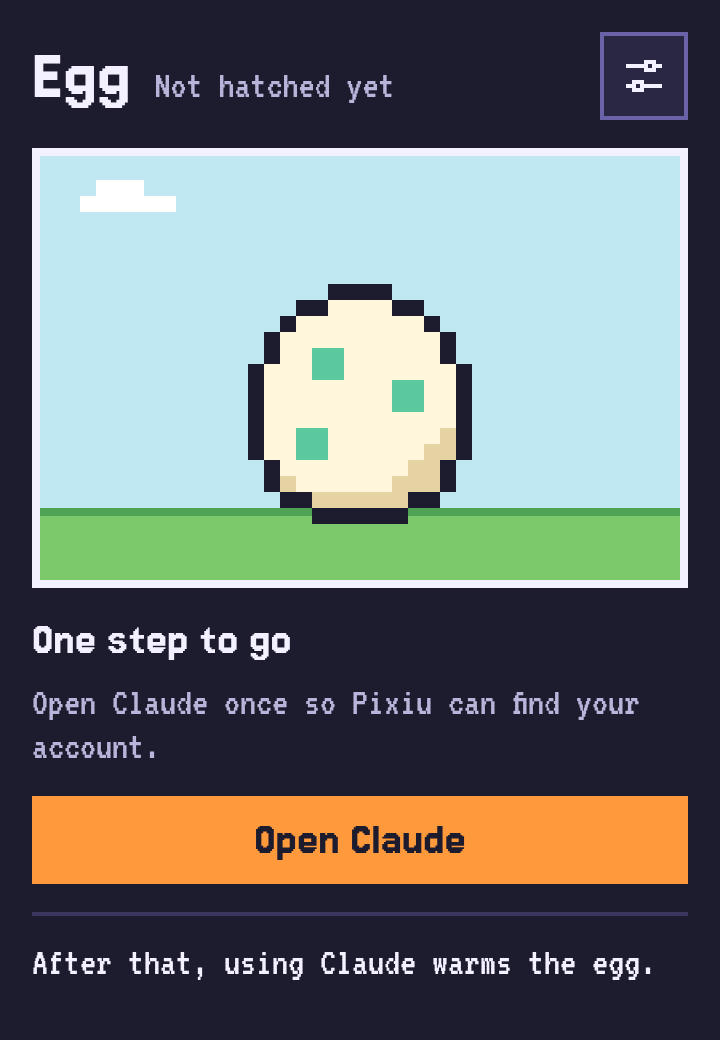
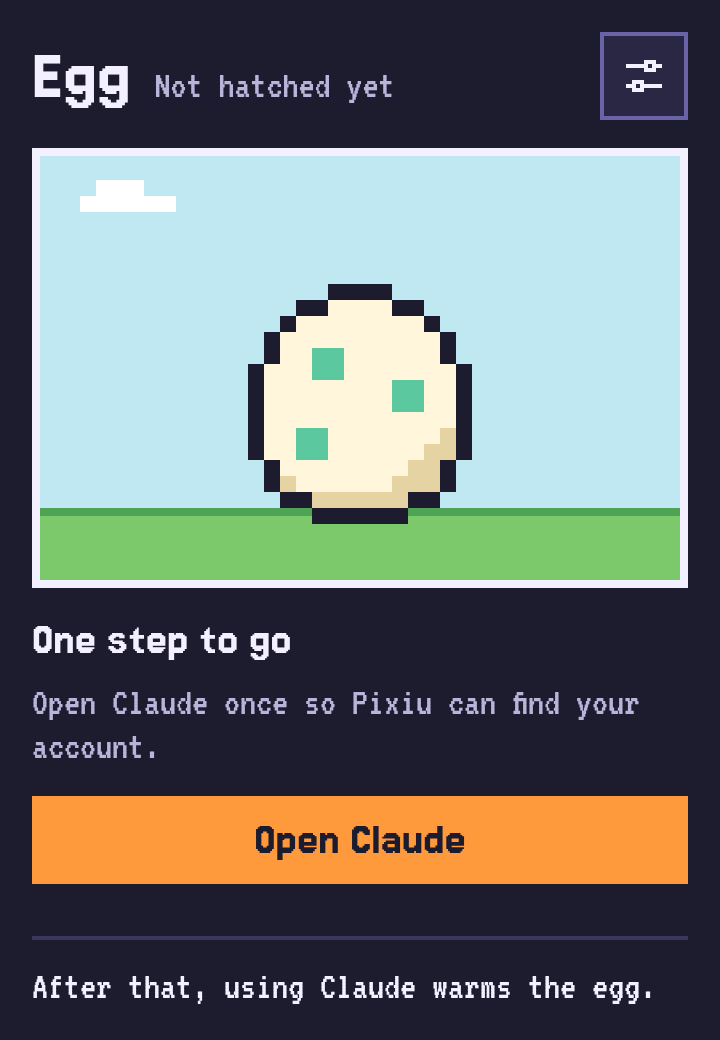
Fix review findings on the birthday branch
Footers in the first-run, hatching, ran-away, and can't-reach popups now reach
the bottom: the footer rule is scoped to the popup so the reset of paragraph
margins no longer cancels it. A long name with a birthday's age moves the age
below the name on the overlay card. The docs no longer claim a 0.1.0 pet never
celebrates after an update, and the banner comment says it is on the grass.

Changed region(s): [[0.0306, 0.8615, 0.9472, 0.9846]]

diff --git a/src/lib/pet/state.ts b/src/lib/pet/state.ts
@@ -73,7 +73,8 @@ export type PetStateV1 = Omit<PetStateV2, "version" | "xp"> & { version: 1 };
  * week is also credited the part of the week from before it hatched, which the old rules would
  * have rewarded at the reset anyway.
  *
- * Older pets have no birthday on record, so nothing celebrates by surprise after an update.
+ * Older pets have no birthday on record, so a pet from 0.2.0 does not celebrate after an update.
+ * A pet from 0.1.0 does celebrate if its credited XP pays for a catch-up birthday at its next read.
  */
 export function upgradePet(pet: PetState | PetStateV2 | PetStateV1): PetState {
   if (pet.version === 1) {

diff --git a/src/ui/PetPopup.tsx b/src/ui/PetPopup.tsx
@@ -510,7 +510,7 @@ function foodNote(mood: Mood, pet: PetState, session: UsageWindow, now: Date): s
   return "No session running";
 }
 
-/** The banner in the sky on a birthday. Growing into a new stage gets its own. */
+/** The banner on the grass on a birthday. Growing into a new stage gets its own. */
 const BANNERS: Record<Stage, string> = {
   baby: "Happy birthday!",
   child: "Now a child!",

diff --git a/src/ui/Overlay.tsx b/src/ui/Overlay.tsx
@@ -397,7 +397,7 @@ function Card(props: OverlayProps & { view: PetView }) {
 
 function Heading({ title, detail }: { title: string; detail: string }) {
   return (
-    <div class="ov-row">
+    <div class="ov-row ov-heading">
       <h2>{title}</h2>
       <p class="ov-dim">{detail}</p>
     </div>

diff --git a/src/ui/overlay.css b/src/ui/overlay.css
@@ -151,6 +151,15 @@
   gap: 8px;
 }
 
+/* A long name with a birthday's "Age 14 today!" moves the age below the name. */
+.ov-heading {
+  flex-wrap: wrap;
+}
+
+.ov-heading p {
+  white-space: nowrap;
+}
+
 .ov-stat {
   display: flex;
   flex-direction: column;

diff --git a/src/ui/pet-popup.css b/src/ui/pet-popup.css
@@ -263,7 +263,8 @@
   gap: 6px;
 }
 
-.px-footer {
+/* Scoped to the popup so it beats the reset of paragraph margins above. */
+.pixiu .px-footer {
   margin-top: auto;
   padding-top: 12px;
   border-top: 2px solid var(--divider);

diff --git a/docs/RULES.md b/docs/RULES.md
@@ -40,7 +40,7 @@ The pet logic sees only this, refreshed on each poll:
 ## Birthdays
 
 - **Decided (Nayed, 2026-11-26):** the pet celebrates each birthday for 24 hours, so a birthday that happens while nobody is looking is still seen.
-- **Decided (Nayed, 2026-11-26):** the pet remembers its last birthday: when it was, the age it reached, and the age before. Pets from 0.2.0 and older start with none, so nothing celebrates by surprise after an update.
+- **Decided (Nayed, 2026-11-26):** the pet remembers its last birthday: when it was, the age it reached, and the age before. Pets from 0.2.0 and older start with none, so a pet from 0.2.0 does not celebrate after an update. A pet from 0.1.0 does, if the XP it is credited pays for a catch-up birthday.
 - **Decided (Nayed, 2026-11-26):** several ages paid for at once make one celebration, for the age reached.
 - **Decided (Nayed, 2026-11-26):** a pet with no name waits to celebrate until it has one, and the party pauses while it can't reach Claude.
 - **Decided (Nayed, 2026-11-26):** a birthday that brings a new stage says so: "Now a child!", "Now a teen!", "Now an adult!". Any other says "Happy birthday!".
